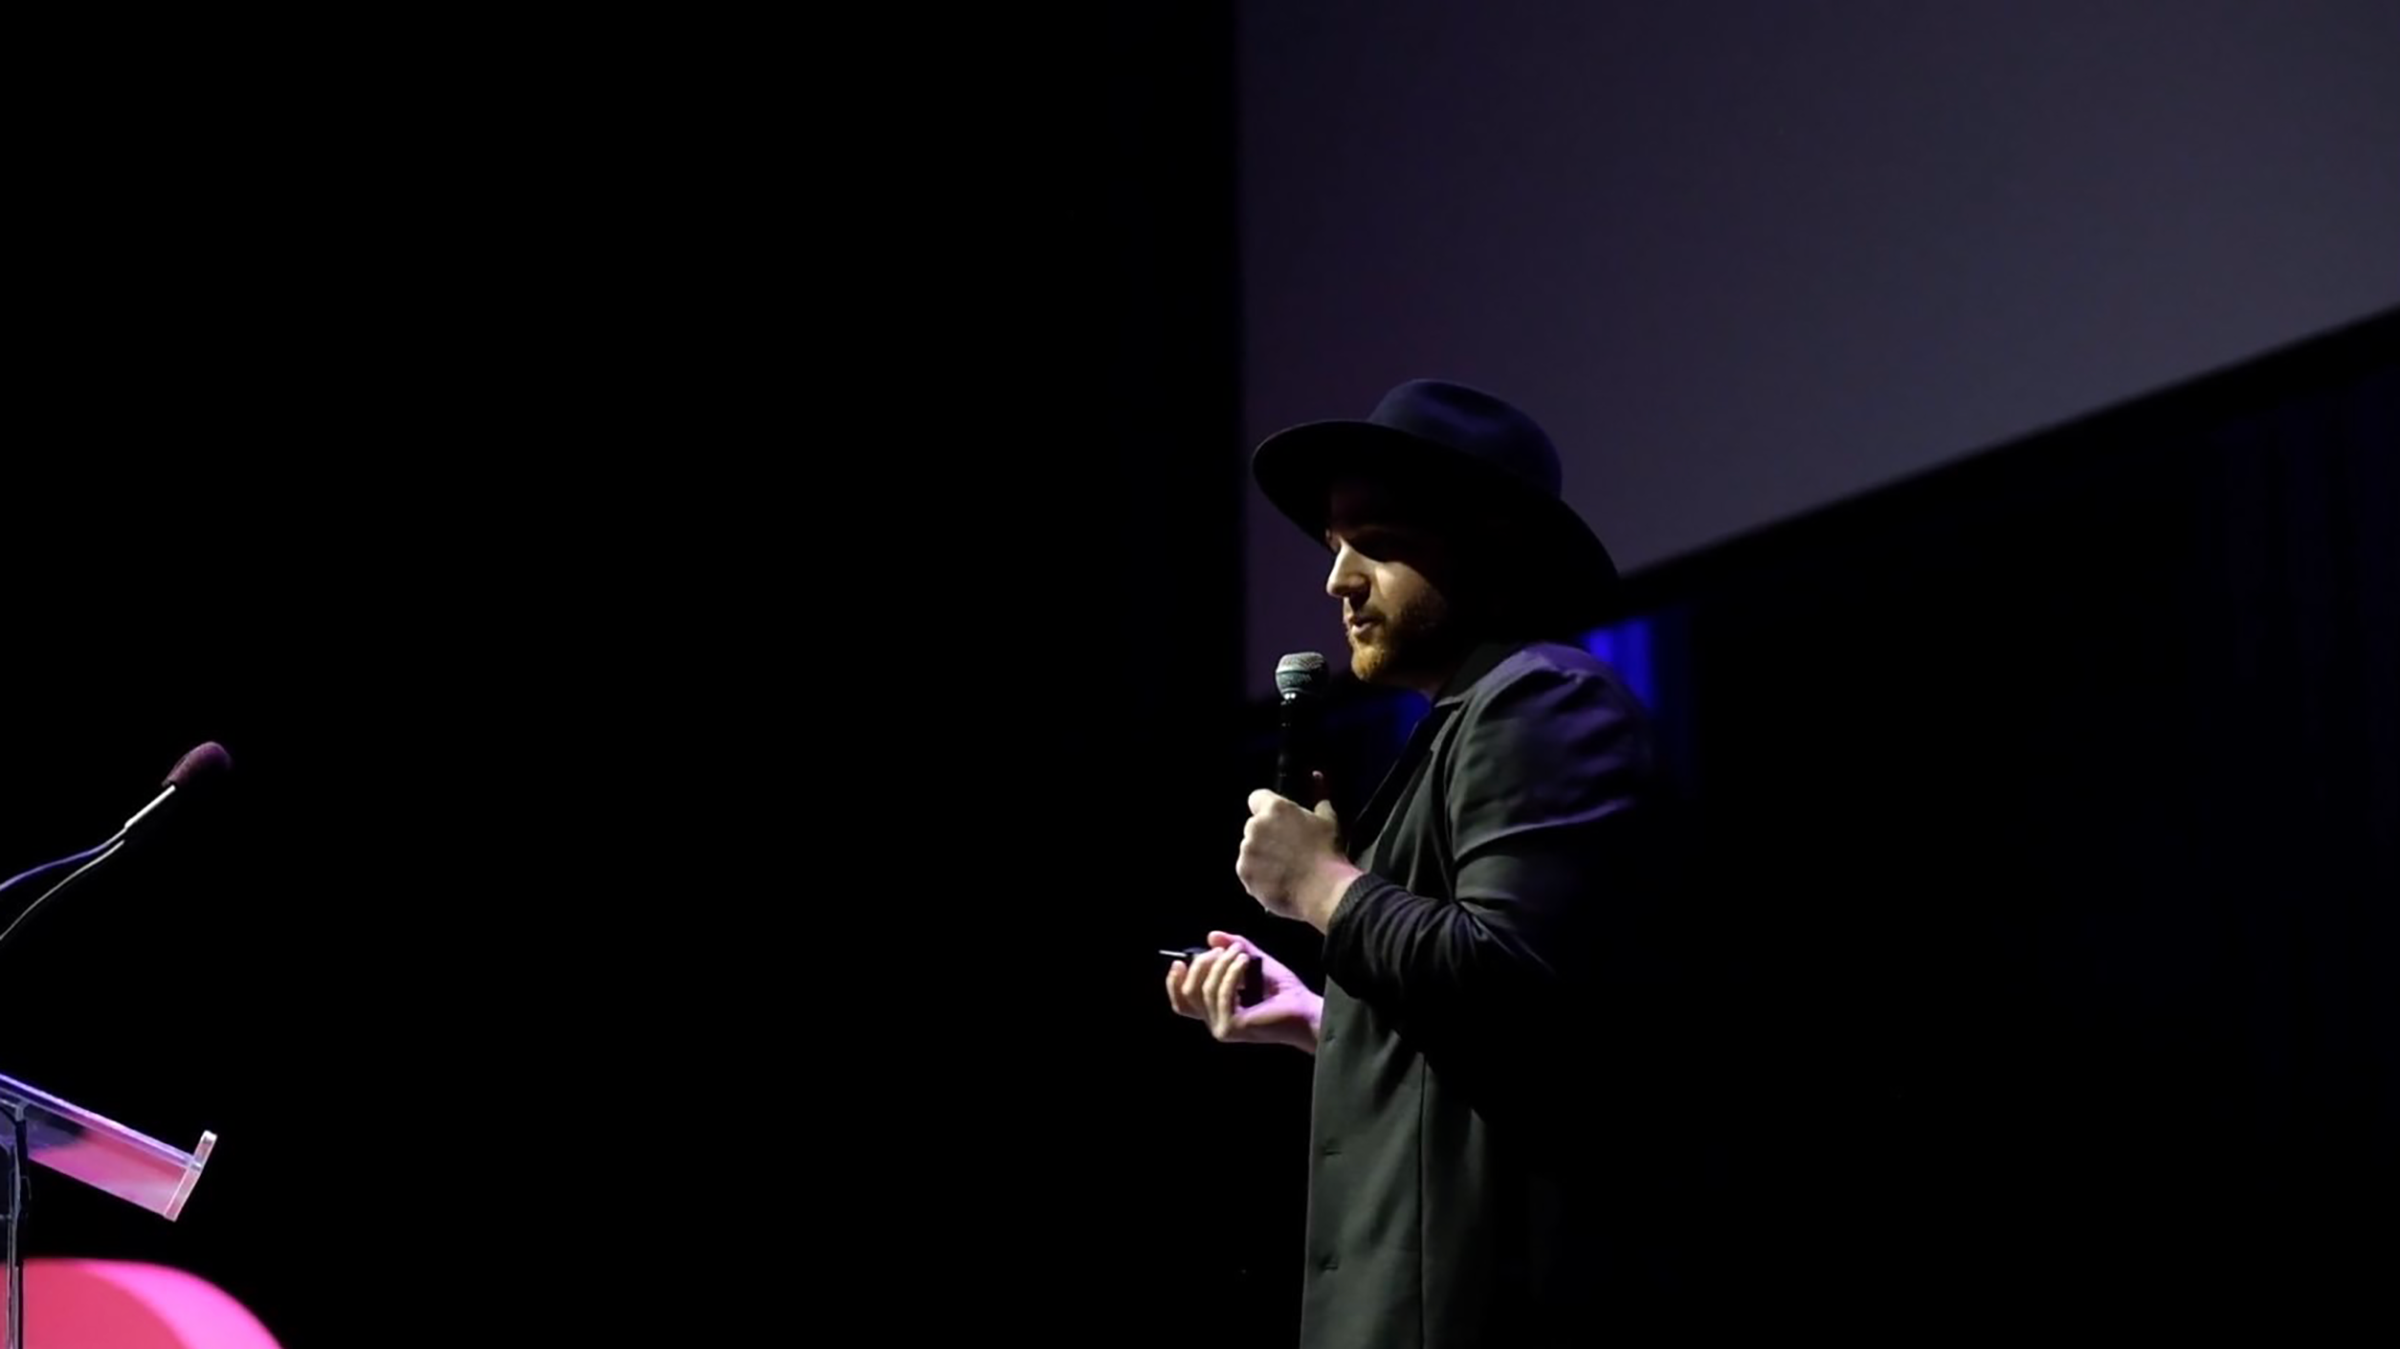
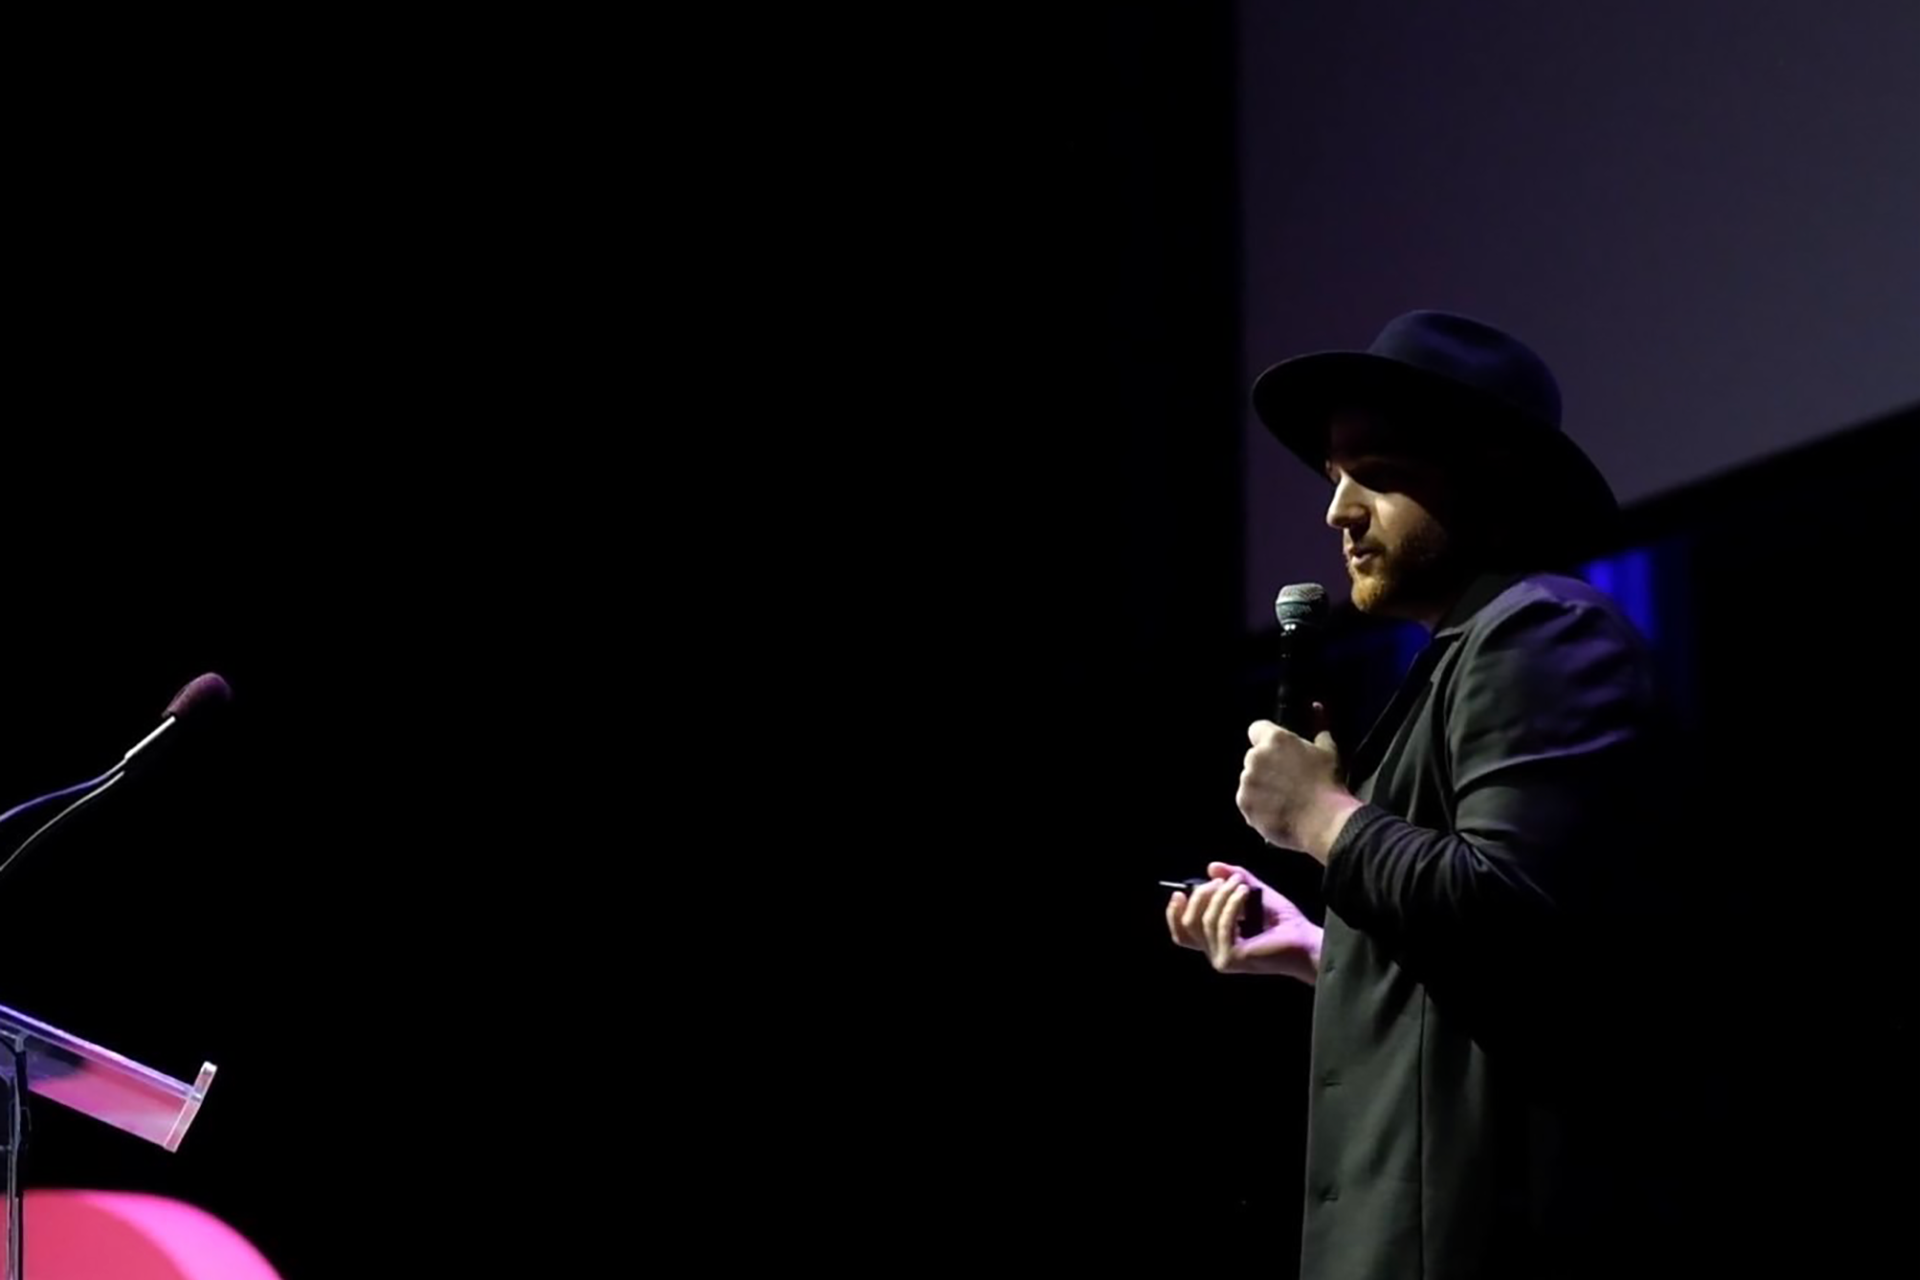
:pencil: New about page copy

diff --git a/_styles/scss/variables/_colors.scss b/_styles/scss/variables/_colors.scss
@@ -5,15 +5,15 @@ $selection-background: rgb(0, 0, 0);
 $backgroundColor: rgb(255,255,255);
 $mediaBackground: rgba(0,0,0,0.06);
 $textColor: rgba(0,0,0,0.9);
-$textLight: rgba(0,0,0,0.72);
+$textLight: rgba(0,0,0,0.9);
 $textLighter: rgba(0,0,0,0.5);
 $borderColor: rgba(0,0,0,0.17);
 $primaryColor: rgb(0, 0, 0);
 
-$dark-backgroundColor: rgba(0,0,0,0.93);
+$dark-backgroundColor: rgba(0,0,0,0.94);
 $dark-mediaBackground: rgba(255,255,255,0.08);
 $dark-textColor: rgba(255,255,255,0.9);
-$dark-textLight: rgba(255,255,255,0.73);
+$dark-textLight: rgba(255,255,255,0.9);
 $dark-textLighter: rgba(255,255,255,0.5);
 $dark-borderColor: rgba(255,255,255,0.13);
 $dark-primaryColor: rgb(255,255,255);

diff --git a/_styles/scss/components/_wrap.scss b/_styles/scss/components/_wrap.scss
@@ -7,12 +7,12 @@
   }
 
   &__pad {
-    padding-left: $spacing-xxs;
-    padding-right: $spacing-xxs;
+    padding-left: $spacing-half;
+    padding-right: $spacing-half;
 
     @media (min-width: $bp-tiny) {
-      padding-left: $spacing-xs;
-      padding-right: $spacing-xs;
+      padding-left: $spacing-tiny;
+      padding-right: $spacing-tiny;
     }
 
     @media (min-width: $bp-xxs) {

diff --git a/_styles/scss/components/_header.scss b/_styles/scss/components/_header.scss
@@ -3,7 +3,11 @@
 	flex-direction: row;
 	align-items: center;
 	justify-content: space-between;
-	padding: $spacing-md 0;
+	padding: $spacing-xs 0;
+
+	@media (min-width: $bp-xxs) {
+		padding: $spacing-md 0;
+	}
 
 	@media (min-width: $bp-xs) {
 		padding: $spacing-xxl 0;

diff --git a/_styles/scss/components/_grid.scss b/_styles/scss/components/_grid.scss
@@ -30,7 +30,7 @@
   }
 
   &__gap {
-    column-gap: $spacing-sm;
+    column-gap: $spacing-xxl;
   }
 
   &__col {
@@ -49,7 +49,8 @@
   }
 
   &__mt {
-
+    margin-top: $spacing-half;
+    
     @media (min-width: $bp-sm) {
       margin-top: $spacing-half;
     }

diff --git a/_styles/scss/components/_text.scss b/_styles/scss/components/_text.scss
@@ -9,10 +9,10 @@
   }
 
   & p {
-    max-width: 40rem;
+    max-width: 38rem;
 
     @media (min-width: $bp-xs) {
-      max-width: 48rem;
+      max-width: 46rem;
     }
   }
 }

diff --git a/_styles/scss/base/_typography.scss b/_styles/scss/base/_typography.scss
@@ -105,6 +105,10 @@ a {
   }
 }
 
+strong {
+  font-weight: 700;
+}
+
 figure {
   margin-bottom: $spacing-xs;
 

diff --git a/about/index.md b/about/index.md
@@ -8,20 +8,23 @@ description: Building products and services is a team sport. It requires healthy
 
 <div class="c-grid__half c-grid__gap">
   <article class="c-grid__half-item c-text-format">
-    <h2>Good People</h2>
-    <p>I’m a product designer, researcher, and engineer living in Brooklyn, NY. I value human connection, perpetual learning, and metaphors that guide our everyday interactions.</p>
-    <p>I believe products are in service of people. It is our job to make sure they are accessible and inclusive for anyone to use.</p>
-    <p>I’m currently building a few things of my own — an open-source project around sensible screen-based media type scales, a series of enamel pins and prints, and a mechanical keyboard key set that will be for sale this Fall/Winter. Previously, I built tools for design teams at <a href="https://www.invisionapp.com/">InVision</a>, designed enterprise software at <a href="https://www.ibm.com/design/">IBM</a>, and prototyped apps for people at work with <a href="https://www.apple.com/business/" target="_blank">Apple</a>. In 2014, I founded the <a href="https://www.instagram.com/make.lab/">Make Lab</a> with a co-worker in Austin, TX.</p>
-    <p>I enjoy meeting new people. If you find yourself in one of the five boroughs and would like to meet up for a tea, coffee, or snack, please <a href="https://twitter.com/matthewcpaul" target="_blank">reach out on Twitter</a>!</p>
+    <h2>Thinking in systems</h2>
+    <p>I’m <strong>an experienced product designer</strong>, responsible for leading the design process on product teams, defining product direction, prioritizing company efforts, and shaping new practices within design teams.</p>
+    <p>As <strong>a design generalist</strong>, I use a breadth of skills to contribute to the entire product lifecycle — research, ideation, journey mapping, visual &amp; interaction design, prototyping, measuring success, and product marketing.</p>
+    <p>I care about why we build things, and the effects of technology on society. It’s our job to consider the technical, product, and business impact of every decision we make, and ensure that what’s built is ethical, inclusive, and accessible for anybody to use.</p>
+    <p>Building successful products is a team sport. It requires healthy collaboration, persistent communication, and diversity in people and ideas.</p>
+    <h2>New opportunities</h2>
+    <p>I’m currently building a few things of my own, while seeking a new full-time role. <strong>I’m interested in tools, climate, films, music, and health care.</strong> Previously, I built tools for design teams at <a href="https://www.invisionapp.com/">InVision</a>, designed enterprise software at <a href="https://www.ibm.com/design/">IBM</a>, and prototyped apps for people at work with <a href="https://www.apple.com/business/" target="_blank">Apple</a>. In 2014, I founded the <a href="https://www.instagram.com/make.lab/">Make Lab</a> with a co-worker in Austin, TX.</p>
+    <p>I get inspired by meeting new people. If you find yourself in one of the five boroughs and would like to meet up for a tea, coffee, or snack, please <a href="https://twitter.com/matthewcpaul" target="_blank">reach out on Twitter</a>!</p>
   </article>
   <figure class="c-grid__half-item c-grid__mt">
     <picture>
-      <source media="(min-width: 44em)" srcset="../images/about/matthewpaul-hangtime-lg.png" />
-      <source media="(min-width: 30em)" srcset="../images/about/matthewpaul-hangtime-md.png" />
+      <source media="(min-width: 68.5rem)" srcset="../images/about/matthewpaul-hangtime-lg.png" />
+      <source media="(min-width: 32em)" srcset="../images/about/matthewpaul-hangtime-md.png" />
       <img src="../images/about/matthewpaul-hangtime-sm.png" alt="Matthew Paul in Brooklyn, NY." />
     </picture>
     <figcaption>
-      It me, at Dribbble Hangtime NYC.
+      Keynote talk, Dribbble Hangtime NYC.
     </figcaption>
   </figure>
 </div>
